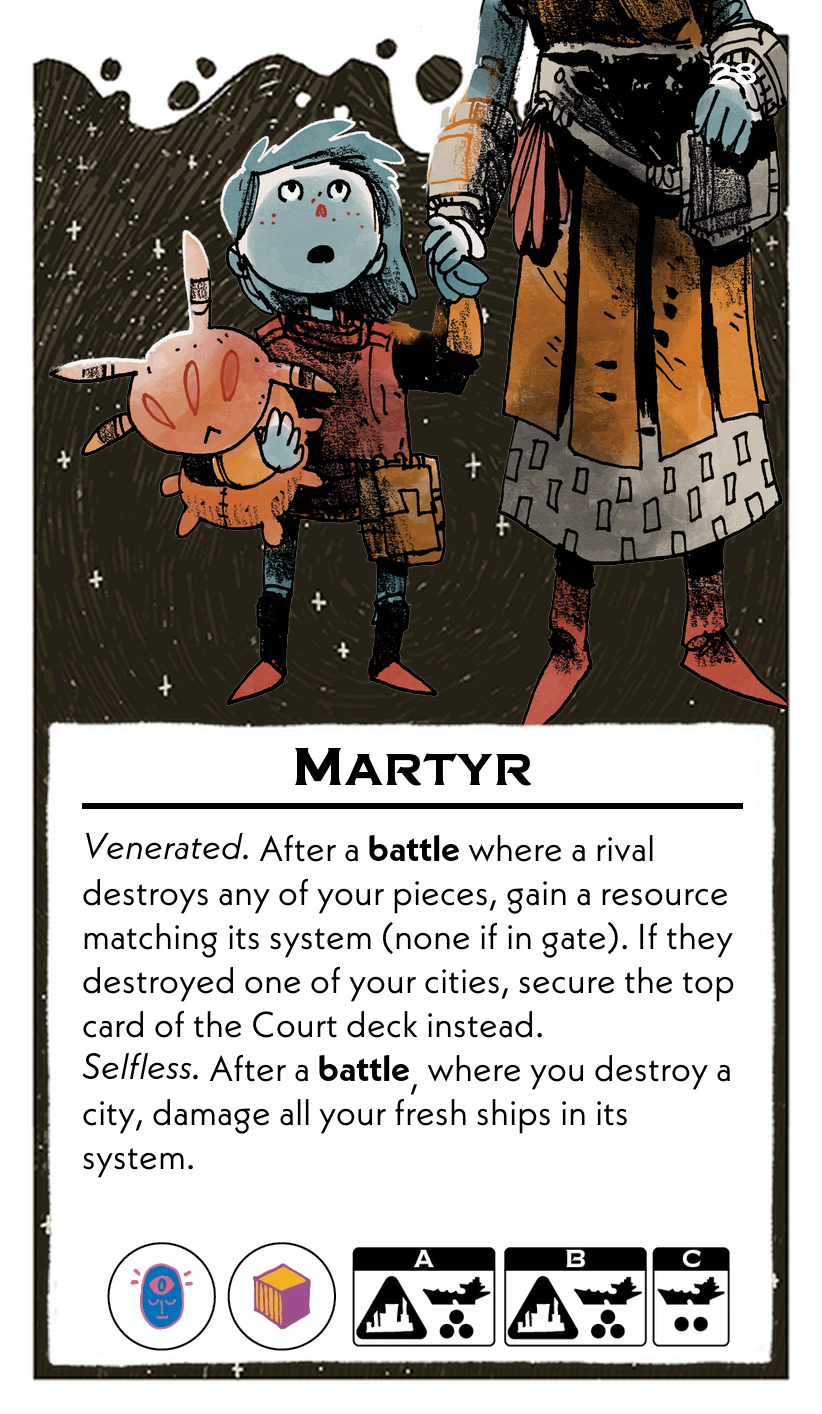
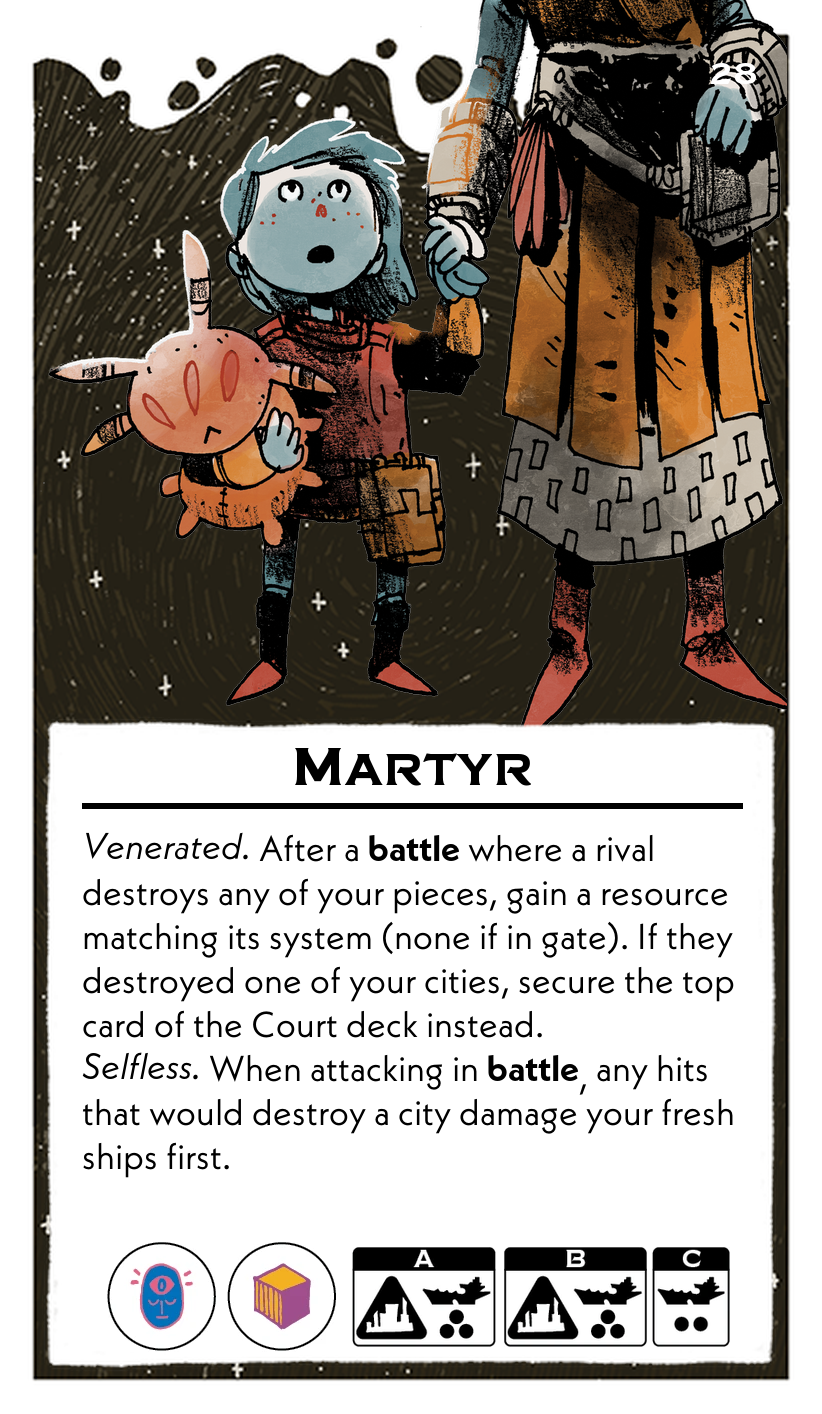
martyr

Changed region(s): [[0.0912, 0.7468, 0.882, 0.8402]]

diff --git a/scripts/leadersFormatted.py b/scripts/leadersFormatted.py
@@ -429,7 +429,7 @@ leaders = [
         "name": "Martyr",
         "abilities": (
             "*Venerated.* After a **battle** where a rival destroys any of your pieces, gain a resource matching its system (none if in gate). If they destroyed one of your cities, secure the top card of the Court deck instead.\n"
-            "*Selfless.* After a **battle**, where you destroy a city, damage all your fresh ships in its system."
+            "*Selfless.* When attacking in **battle**, any hits that would destroy a city damage your fresh ships first."
         ),
         "resources": ["Psionic", "Material"],
         "setup": {
